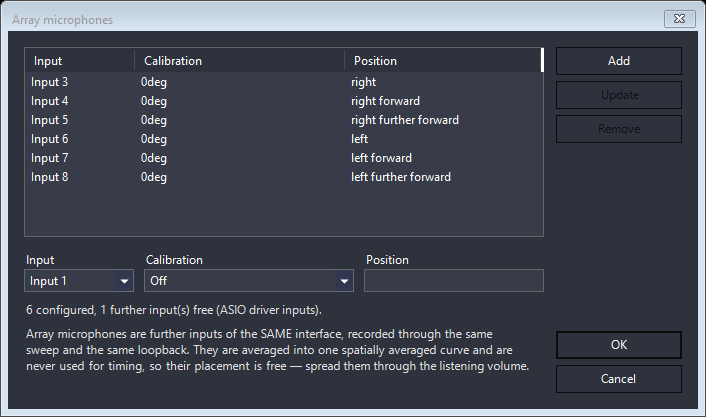
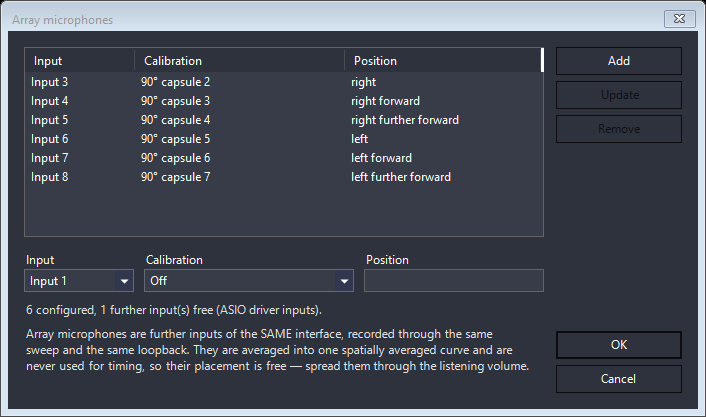
Name each capsule's calibration in the array figure
Every row read 0deg, because the set behind it was recorded by one microphone
moved between sittings and the file stores that name seven times. A real array is
individually calibrated — the guide says so two sections later — and a column
that happens to repeat looks, in a figure, exactly like a column that cannot vary.

arrayRig.calibrations names them, one per further microphone in the measurement's
order, and a count that does not match the set stops the shot. Absent, the file's
own names are shown as before.

Changed region(s): [[0.187, 0.1871, 0.3116, 0.4365]]

diff --git a/tools/Resonalyze.Screenshots/Shots.cs b/tools/Resonalyze.Screenshots/Shots.cs
@@ -271,21 +271,30 @@ internal static class Shots
         List<ImpulseResponseFile.ArrayMicrophoneFileEntry> further =
             [.. positions.Where(position => !position.IsMeasurementMicrophone)];
 
-        // The dialog names calibrations by id out of Record Settings' own list, and
-        // the file kept only the curve's name — enough to show the row as it was
-        // configured, which is all a figure has to be right about.
+        // The dialog names calibrations by id out of Record Settings' own list, and the
+        // file kept only the curve's name — enough to show the row as it was configured.
+        // The config may name them instead, one per row: an array is individually
+        // calibrated, and a set recorded by one microphone moved between sittings stores
+        // one name for every position, which illustrates the column badly.
+        string?[] names = rig.Calibrations is { } authored
+            ? authored.Length == further.Count
+                ? [.. authored]
+                : throw new InvalidOperationException(
+                    $"arrayRig names {authored.Length} calibrations and the measurement " +
+                    $"has {further.Count} further microphones. One per row, in order.")
+            : [.. further.Select(position => position.Calibration?.Name)];
+
         List<MicrophoneCalibrationEntry> calibrations =
-            [.. further
-                .Select(position => position.Calibration?.Name)
+            [.. names
                 .Where(name => !string.IsNullOrWhiteSpace(name))
                 .Distinct(StringComparer.Ordinal)
                 .Select(name => new MicrophoneCalibrationEntry(name!, name!, true))];
 
         List<ArrayMicrophoneDefinition> microphones =
-            [.. further.Select(position => new ArrayMicrophoneDefinition
+            [.. further.Select((position, index) => new ArrayMicrophoneDefinition
             {
                 ChannelOffset = position.ChannelOffset,
-                CalibrationId = position.Calibration?.Name,
+                CalibrationId = names[index],
                 Note = position.Note
             })];
 

diff --git a/tools/Resonalyze.Screenshots/ShotConfig.cs b/tools/Resonalyze.Screenshots/ShotConfig.cs
@@ -208,4 +208,19 @@ internal sealed class ArrayRig
     /// </summary>
     [JsonPropertyName("backend")]
     public AudioBackend Backend { get; set; } = AudioBackend.Asio;
+
+    /// <summary>
+    /// What to call each further microphone's calibration in the figure, in the
+    /// measurement's own order — one name per row, or absent to show the names the
+    /// measurement stored.
+    /// </summary>
+    /// <remarks>
+    /// A real array is individually calibrated: every capsule carries its own file,
+    /// and the guide says so. A SET can still be recorded through one microphone moved
+    /// between sittings, and then every row stores the same name — true of that file,
+    /// and a poor illustration of the dialog, since a reader cannot tell a column that
+    /// happens to repeat from one that cannot vary.
+    /// </remarks>
+    [JsonPropertyName("calibrations")]
+    public string[]? Calibrations { get; set; }
 }

diff --git a/tools/Resonalyze.Screenshots/README.md b/tools/Resonalyze.Screenshots/README.md
@@ -25,7 +25,7 @@ is git-ignored — and point it at your own files:
 | `measurement` | an impulse response (`.json`). Every analysis-mode shot is taken from it. |
 | `session` | a finished Virtual DSP project. The Virtual DSP, EQ Wizard and manual shots come from it, so it wants every channel loaded and tuned. |
 | `arrayMeasurement` | optional: a measurement recorded with a microphone array. Both array figures come from it — the curves, and the dialog, whose rows are read back out of the same file. |
-| `arrayRig` | optional, and needed by the array DIALOG only: the `inputs`, `loopbackInput` (numbered as the dialog prints them — Input 1 is 1) and `backend` (`asio`, `wasapiShared`, `wasapiExclusive`, `wave`) the dialog is to be shown for. It states how many inputs are free and where that count comes from, and a measurement records none of it, so the figure waits for an answer instead of composing one. A rig that contradicts the measurement's own channels stops the shot. |
+| `arrayRig` | optional, and needed by the array DIALOG only: the `inputs`, `loopbackInput` (numbered as the dialog prints them — Input 1 is 1) and `backend` (`asio`, `wasapiShared`, `wasapiExclusive`, `wave`) the dialog is to be shown for, plus optional `calibrations` — one name per further microphone, in the measurement's order. It states how many inputs are free and where that count comes from, and a measurement records none of it, so the figure waits for an answer instead of composing one. The names are there because a set recorded by one microphone moved between sittings stores the same calibration on every row, which illustrates an individually calibrated array badly. A rig that contradicts the measurement's own channels stops the shot. |
 | `output` | leave empty for the repository's own `assets/images`. |
 
 `--config <path>` overrides the file, which is the way to render into a scratch

diff --git a/MANUAL.md b/MANUAL.md
@@ -449,8 +449,9 @@ without applying or reopening anything.
 ![The Array microphones list: six further inputs, each with its calibration and the position it stands in](assets/images/manual/array-microphones.png)
 
 *The set this guide's array figures come from: six further microphones on inputs 3 to 8,
-with the measurement one on input 2 as the seventh position. The line under the editor
-says how many inputs are still free and where that count comes from.*
+each read through its own capsule's calibration, with the measurement one on input 2 as
+the seventh position. The line under the editor says how many inputs are still free and
+where that count comes from.*
 
 In practice this means **ASIO**. The array is further inputs of the same interface, and
 MME reaches two channels in all, while a WASAPI endpoint usually presents an interface's
